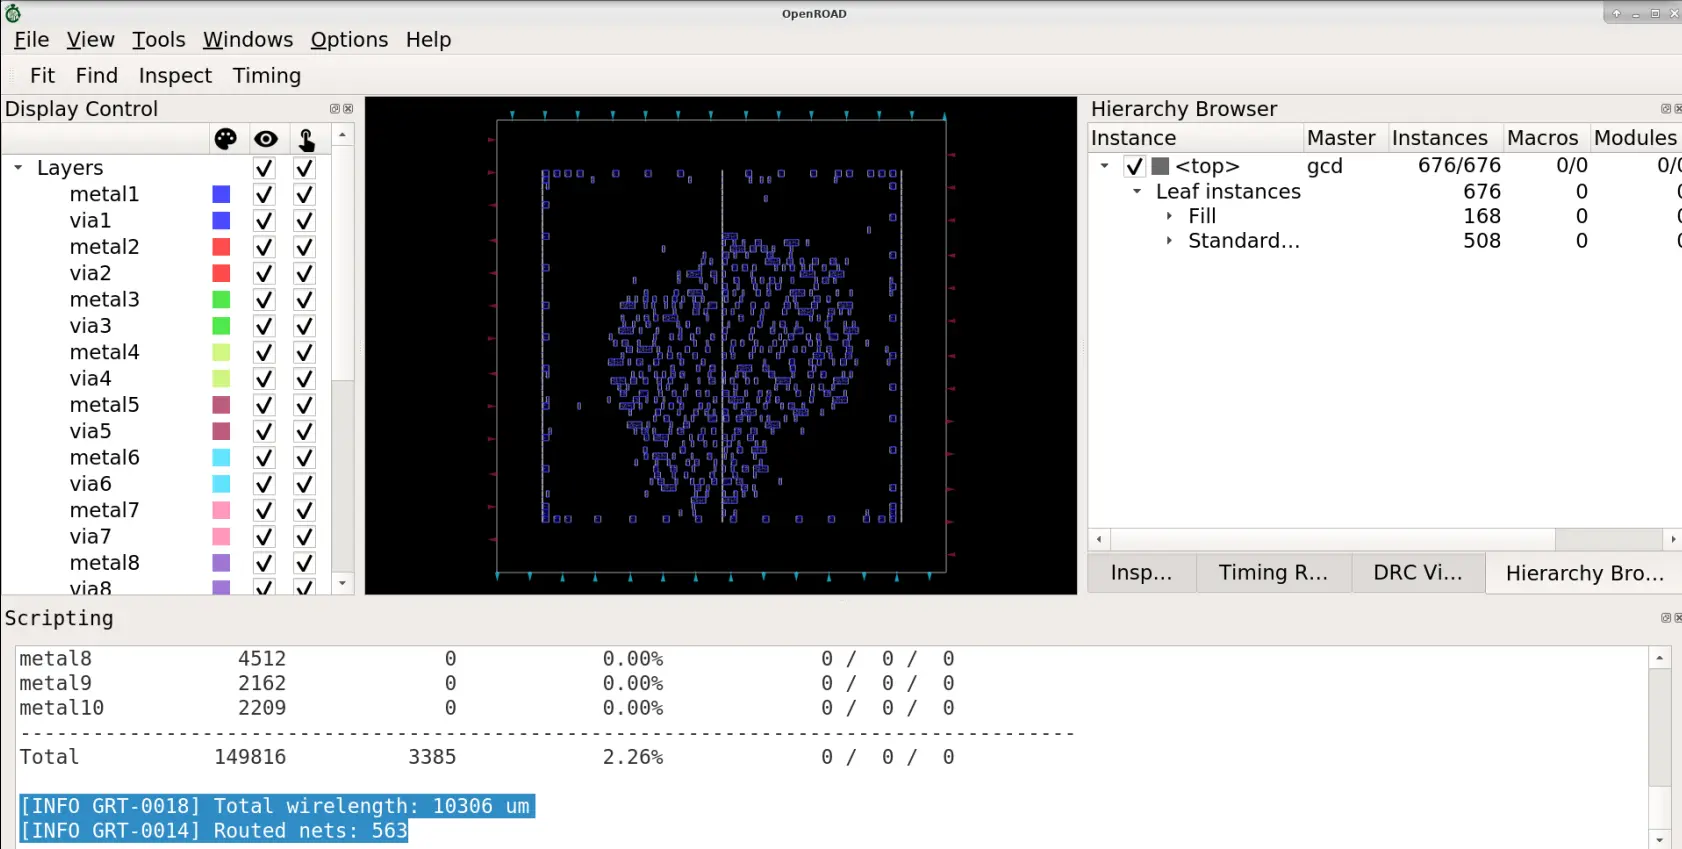
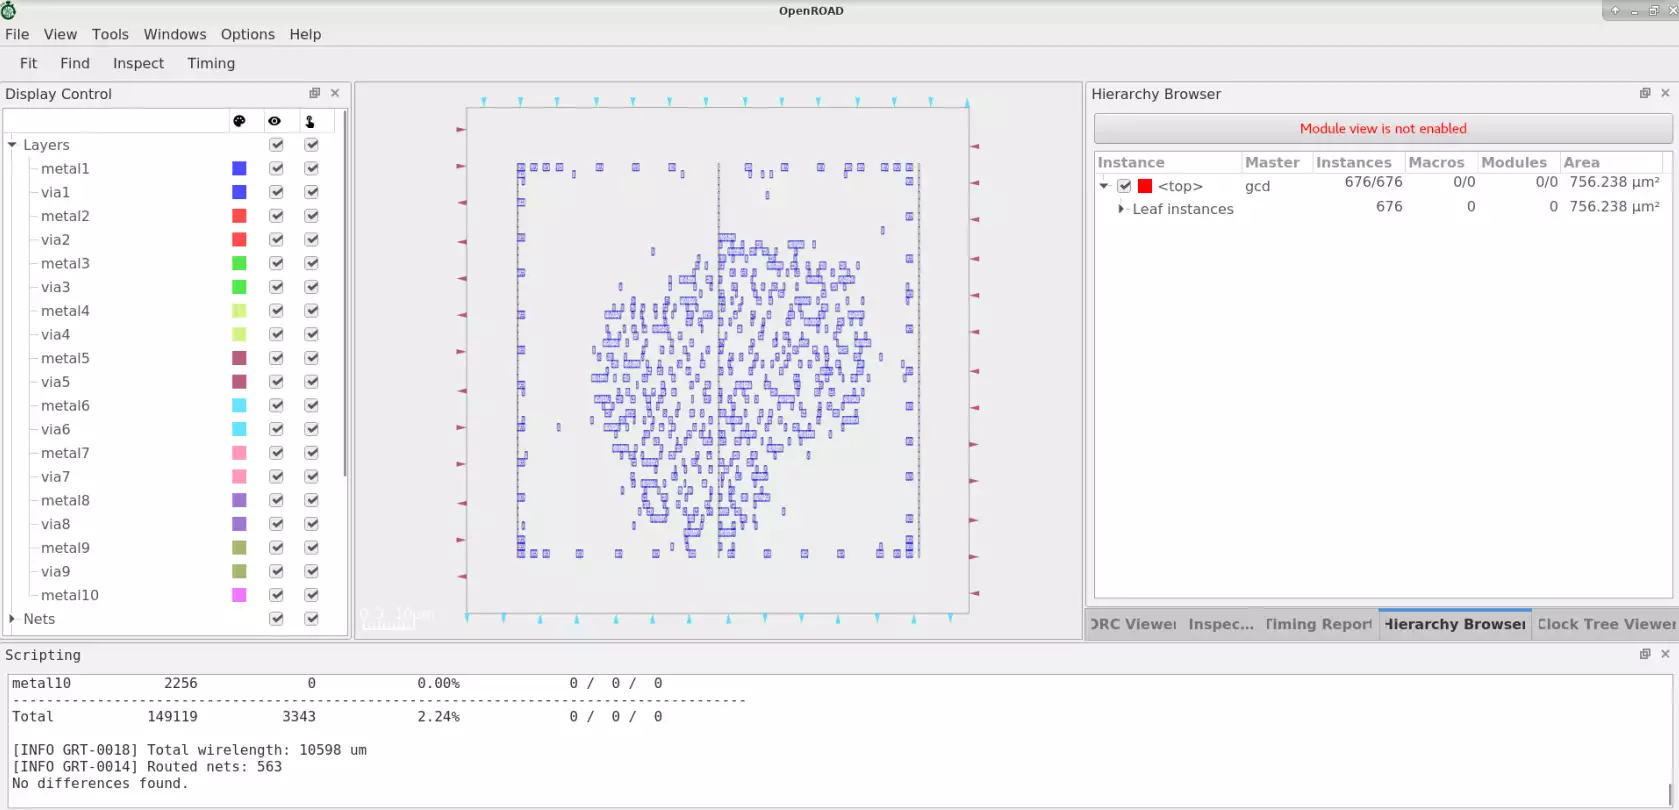
doc:tutorial update

diff --git a/docs/tutorials/FlowTutorial.md b/docs/tutorials/FlowTutorial.md
@@ -855,7 +855,7 @@ source init_floorplan1.tcl
 View the resulting die area "0 0 1000 1000" and core area "100 100 900 900"
 in microns shown below:
 
-![Absolute Floorplan](./images/absolute_diesize.webp)
+![Absolute Floorplan](./images/absolute_die.webp)
 
 #### Floorplan Based On Core Utilization
 
@@ -1212,9 +1212,7 @@ View `ibex` design `config.mk`
 
 ```
 export CORE_UTILIZATION = 40
-export CORE_ASPECT_RATIO = 1
-export CORE_MARGIN = 2
-export PLACE_DENSITY = 0.50
+export PLACE_DENSITY_LB_ADDON = 0.1
 ```
 
 Re-run the `ibex` design with the below command:
@@ -1787,15 +1785,7 @@ To run the global routing, run the following commands in `Tcl Commands` of
 GUI:
 
 ```
-source "helpers.tcl"
-read_lef "Nangate45/Nangate45.lef"
-read_def "gcd.def"
-
-set guide_file [make_result_file gcd.guide]
-
-global_route -verbose
-
-write_guides $guide_file
+source gcd.tcl
 ```
 
 Routing resource and congestion analysis done with below log:
@@ -1803,20 +1793,20 @@ Routing resource and congestion analysis done with below log:
 [INFO GRT-0096] Final congestion report:
 Layer         Resource        Demand        Usage (%)    Max H / Max V / Total Overflow
 ---------------------------------------------------------------------------------------
-metal1           32148          1743            5.42%             0 /  0 /  0
-metal2           24581          1642            6.68%             0 /  0 /  0
-metal3           33028             0            0.00%             0 /  0 /  0
+metal1           31235          1651            5.29%             0 /  0 /  0
+metal2           24628          1652            6.71%             0 /  0 /  0
+metal3           33120            40            0.12%             0 /  0 /  0
 metal4           15698             0            0.00%             0 /  0 /  0
-metal5           15410             0            0.00%             0 /  0 /  0
-metal6           15698             0            0.00%             0 /  0 /  0
-metal7            4370             0            0.00%             0 /  0 /  0
+metal5           15404             0            0.00%             0 /  0 /  0
+metal6           15642             0            0.00%             0 /  0 /  0
+metal7            4416             0            0.00%             0 /  0 /  0
 metal8            4512             0            0.00%             0 /  0 /  0
-metal9            2162             0            0.00%             0 /  0 /  0
-metal10           2209             0            0.00%             0 /  0 /  0
+metal9            2208             0            0.00%             0 /  0 /  0
+metal10           2256             0            0.00%             0 /  0 /  0
 ---------------------------------------------------------------------------------------
-Total           149816          3385            2.26%             0 /  0 /  0
+Total           149119          3343            2.24%             0 /  0 /  0
 
-[INFO GRT-0018] Total wirelength: 10306 um
+[INFO GRT-0018] Total wirelength: 10598 um
 [INFO GRT-0014] Routed nets: 563
 ```
 
